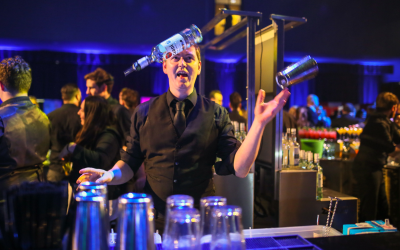
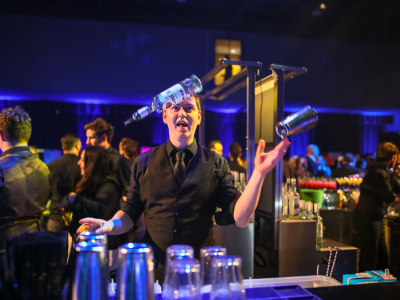
fixed images and removed from display in mobile

diff --git a/index.html b/index.html
@@ -117,16 +117,16 @@
 
             <div class="col-md-4">
                                 
-                <div id="carousel" class="carousel slide" data-bs-ride="carousel">
+                <div id="carousel" class="carousel slide d-sm-none d-md-block" data-bs-ride="carousel">
                     <div class="carousel-inner">
                       <div class="carousel-item active">
-                        <img src="./assets/images/bartender-best-carousel.png" class="d-block w-400 h-300" alt="bartender">
+                        <img src="./assets/images/bartender-best-carousel.png" alt="bartender">
                       </div>
                       <div class="carousel-item">
-                        <img src="./assets/images/bartender-carousel.jpg" class="d-block w-400 h-300" alt="bartender">
+                        <img src="./assets/images/bartender-carousel.jpg" alt="bartender">
                       </div>
                       <div class="carousel-item">
-                        <img src="./assets/images/bartender2-carousel.jpg" class="d-block w-400 h-300" alt="bartender">
+                        <img src="./assets/images/bartender2-carousel.jpg" alt="bartender">
                       </div>
                     </div>
                   </div>
